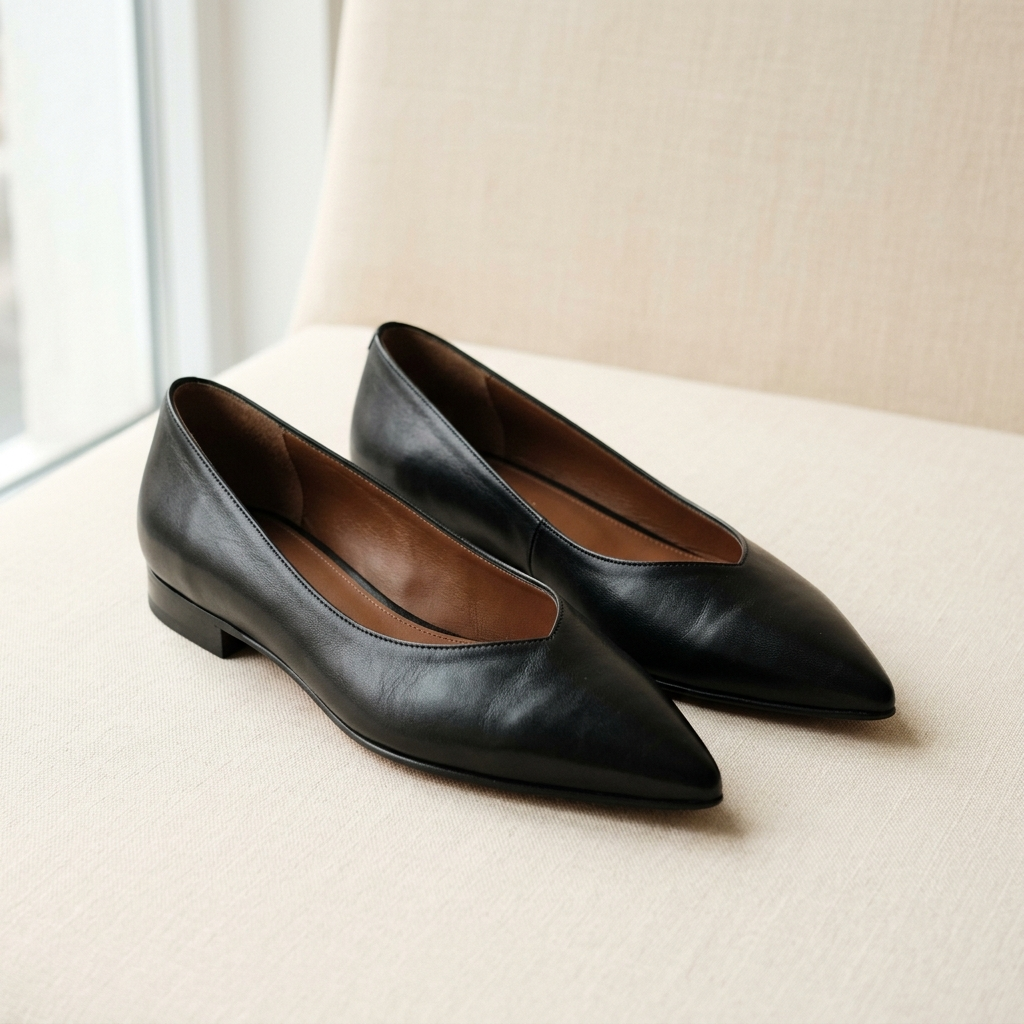
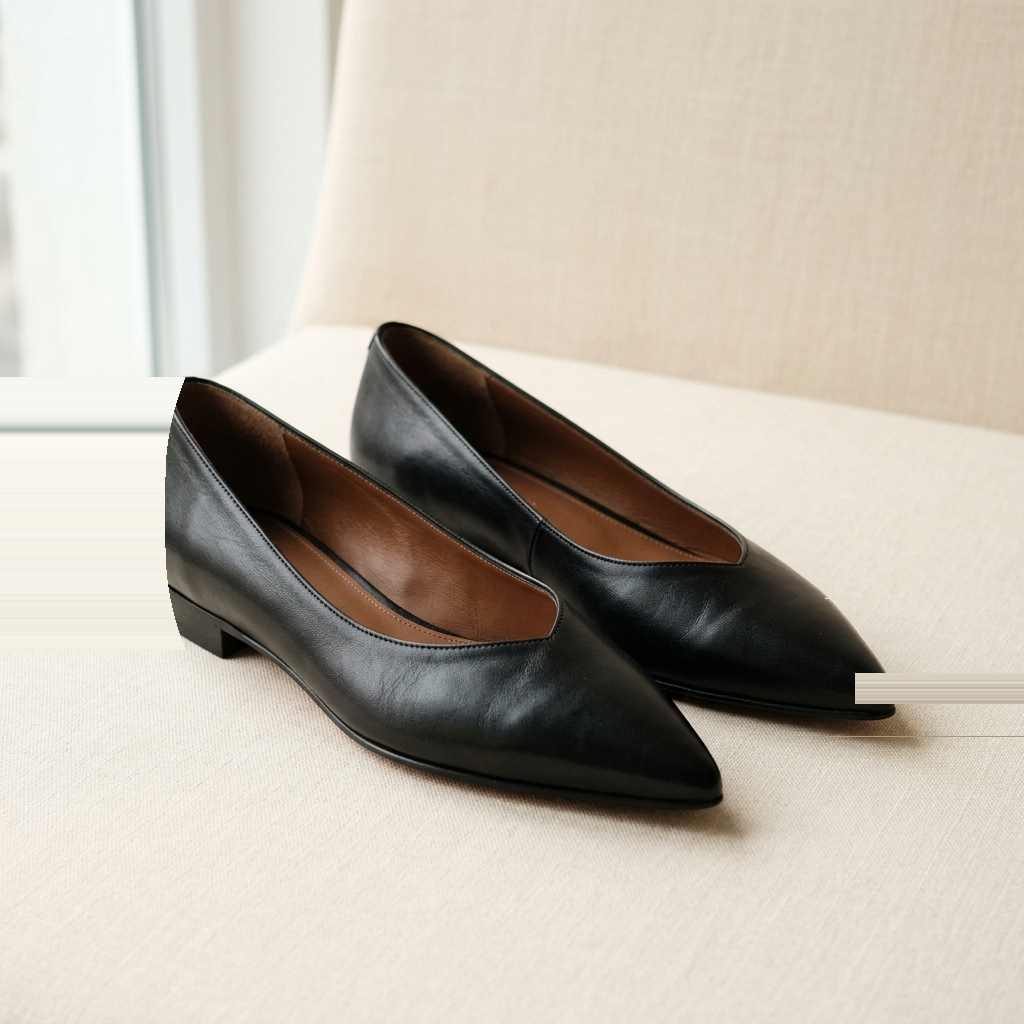
Transform Pointed Leather Flat to beautiful Square-Toe Leather Flat (Küt Burunlu Deri Babet) and update its detail image to a pristine, stitch-free macro texture

Changed region(s): [[0.0, 0.3438, 0.1875, 0.625], [0.8125, 0.6562, 1.0, 0.6875], [0.0, 0.4688, 0.0312, 0.5]]

diff --git a/src/lib/products.ts b/src/lib/products.ts
@@ -1012,27 +1012,27 @@ Ayarlanabilir askısı, çapraz çanta olarak takmanıza veya kısaltarak omuzda
   // --- SHOES ---
   {
     slug: "pointed-flat",
-    name: "Pointed Leather Flat",
-    name_tr: "Sivri Burunlu Deri Babet",
-    subtitle: "black leather · slight heel",
-    subtitle_tr: "siyah deri · hafif topuklu",
+    name: "Square-Toe Leather Flat",
+    name_tr: "Küt Burunlu Deri Babet",
+    subtitle: "black leather · square toe · slight heel",
+    subtitle_tr: "siyah deri · küt burun · hafif topuklu",
     price: "€ 340",
     category: "shoes",
     image: "/images/products/pointed-flat.png",
     detailImage: "/images/products/pointed-flat-detail.png",
-    story: `The elegant alternative to the Mule. Where the Mule No. 4 is relaxed and open-backed, the Pointed Flat is polished and decisive. The pointed toe elongates the leg line, while the slight 15mm stacked heel provides all-day support without fatigue.
+    story: `The elegant alternative to the Mule. Where the Mule No. 4 is relaxed and open-backed, the Square-Toe Flat is polished and decisive. The modern square-toe box offers a contemporary and sculptural silhouette, while the slight 15mm stacked heel provides all-day support without fatigue.
 
 The black leather comes from the same Izmir tannery as the Mule, but finished with a fine grain that resists scuffing. The cushioned insole uses memory foam wrapped in leather — your feet won't know it's a flat and not a sneaker.
 
 We designed it for the woman who walks everywhere. Istanbul's cobblestones, gallery openings, airport corridors — it handles all of them.`,
-    story_tr: `Mule terliklerin zarif bir alternatifi. Mule No. 4 rahat ve arkası açıkken, Sivri Burunlu Babet daha resmi ve net bir duruş sergiler. Sivri burun bacak hattını uzatırken, hafif 15 mm katmanlı topuk yorulmadan gün boyu destek sunar.
+    story_tr: `Mule terliklerin zarif bir alternatifi. Mule No. 4 rahat ve arkası açıkken, Küt Burunlu Babet daha resmi ve net bir duruş sergiler. Modern küt burun tasarımı, çağdaş ve heykelsi bir siluet sunarken, hafif 15 mm katmanlı topuk yorulmadan gün boyu destek sunar.
 
 Siyah deri, Mule ile aynı İzmir tabakhanesinden geliyor; ancak çizilmelere karşı dayanıklı, ince taneli bir doku ile işlenmiştir. Destekli iç tabanı deri kaplı hafızalı köpük kullanır — ayaklarınız spor ayakkabı konforunu aramayacak.
 
 Her yere yürüyen kadınlar için tasarladık. İstanbul'un arnavut kaldırımları, galeri açılışları, havaalanı koridorları — hepsinin üstesinden rahatlıkla gelir.`,
     fabric: [{ name: "Calfskin Leather", percentage: 100 }],
     details: [
-      "Pointed toe — leg-elongating silhouette",
+      "Square toe — contemporary, sculptural silhouette",
       "15mm stacked leather heel",
       "Memory foam cushioned insole",
       "Leather sole with rubber heel tip",
@@ -1040,7 +1040,7 @@ Her yere yürüyen kadınlar için tasarladık. İstanbul'un arnavut kaldırıml
       "Reinforced heel counter for structure"
     ],
     details_tr: [
-      "Sivri burun — bacak boyunu uzatan siluet",
+      "Küt burun — çağdaş, heykelsi siluet",
       "15mm katmanlı deri topuk",
       "Hafızalı köpük destekli iç taban",
       "Kauçuk topuk uçlu deri taban",
@@ -1341,7 +1341,7 @@ We think of tailored trousers as the most underrated piece in any wardrobe. They
       "Aşırı yıkamadan kaçının"
     ],
     sizes: ["XS", "S", "M", "L", "XL"],
-    pairsWith: [{ slug: "double-breasted-blazer", name: "Double-Breasted Blazer" }, { slug: "soft-rules-shirt", name: "Soft Rules Shirt" }, { slug: "pointed-flat", name: "Pointed Leather Flat" }]
+    pairsWith: [{ slug: "double-breasted-blazer", name: "Double-Breasted Blazer" }, { slug: "soft-rules-shirt", name: "Soft Rules Shirt" }, { slug: "pointed-flat", name: "Square-Toe Leather Flat" }]
   },
   {
     slug: "silk-tuxedo-jacket",
@@ -1484,7 +1484,7 @@ Rüzgar kanadı sadece dekoratif değildir — gerçekten çalışır. İstanbul
       "Giyilme aralarında buhar ile tazeleyin"
     ],
     sizes: ["S", "M", "L"],
-    pairsWith: [{ slug: "wide-trouser", name: "Wide Atelier Trouser" }, { slug: "silk-slip-dress", name: "Silk Slip Dress" }, { slug: "pointed-flat", name: "Pointed Leather Flat" }]
+    pairsWith: [{ slug: "wide-trouser", name: "Wide Atelier Trouser" }, { slug: "silk-slip-dress", name: "Silk Slip Dress" }, { slug: "pointed-flat", name: "Square-Toe Leather Flat" }]
   }
 
 ];
